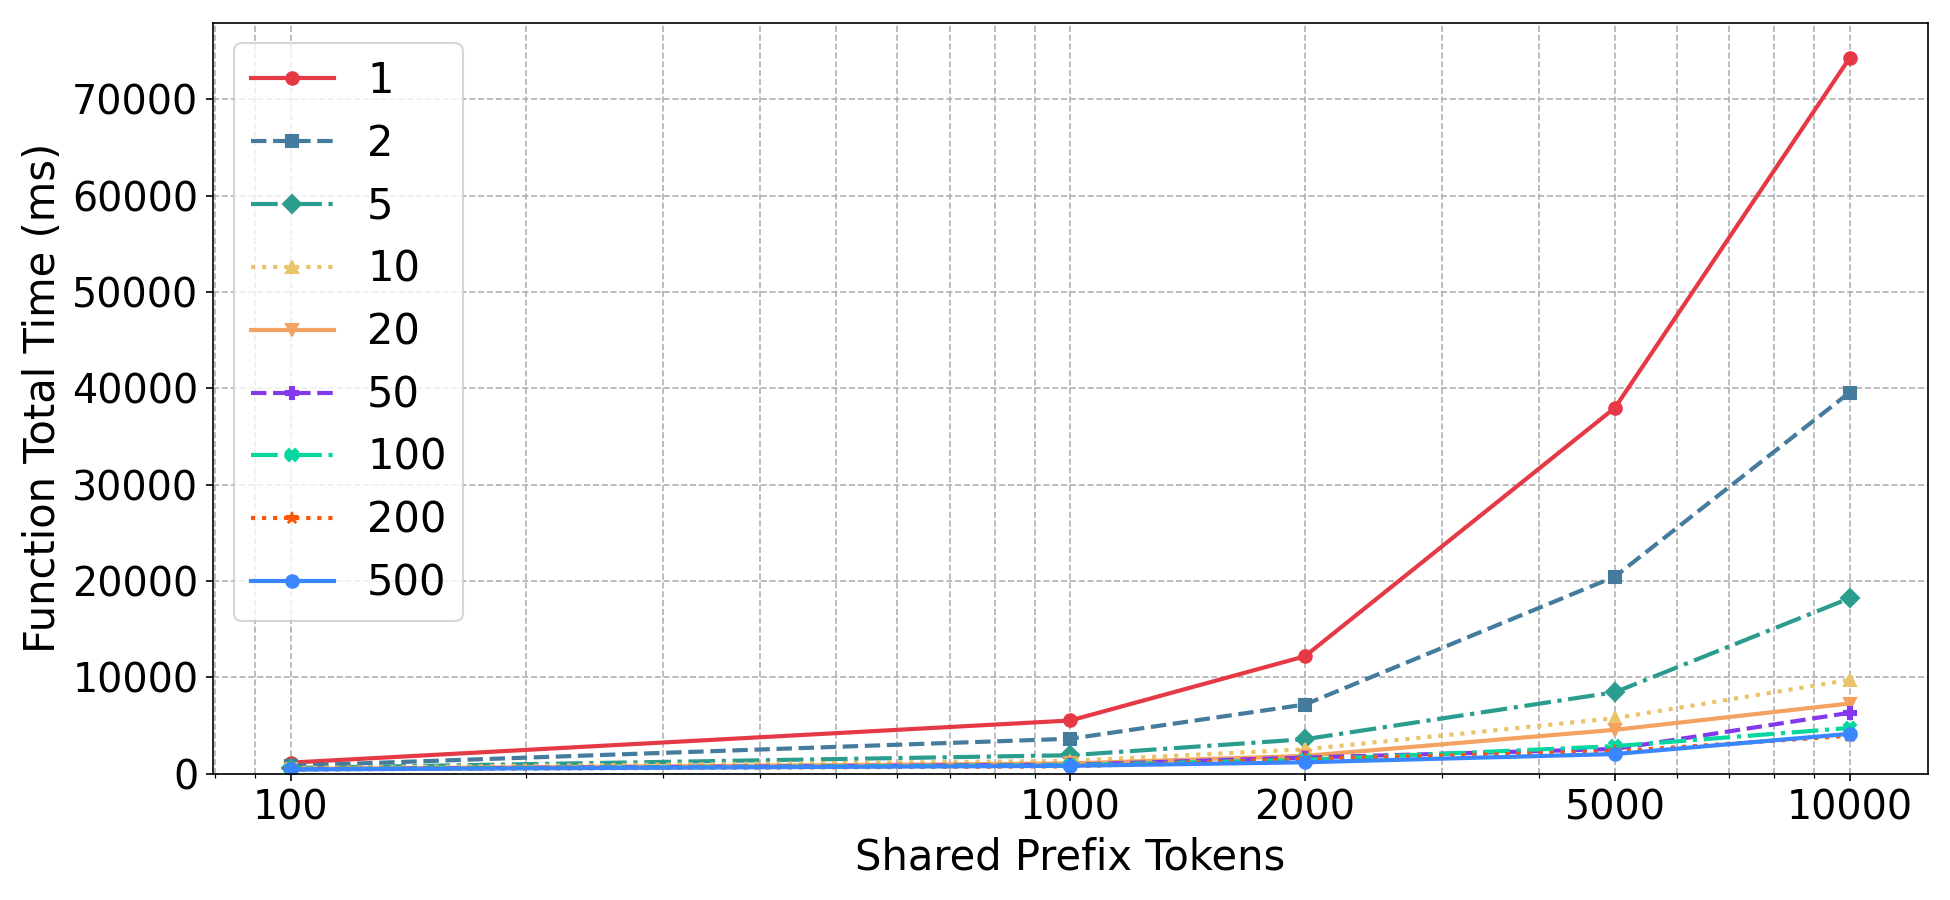
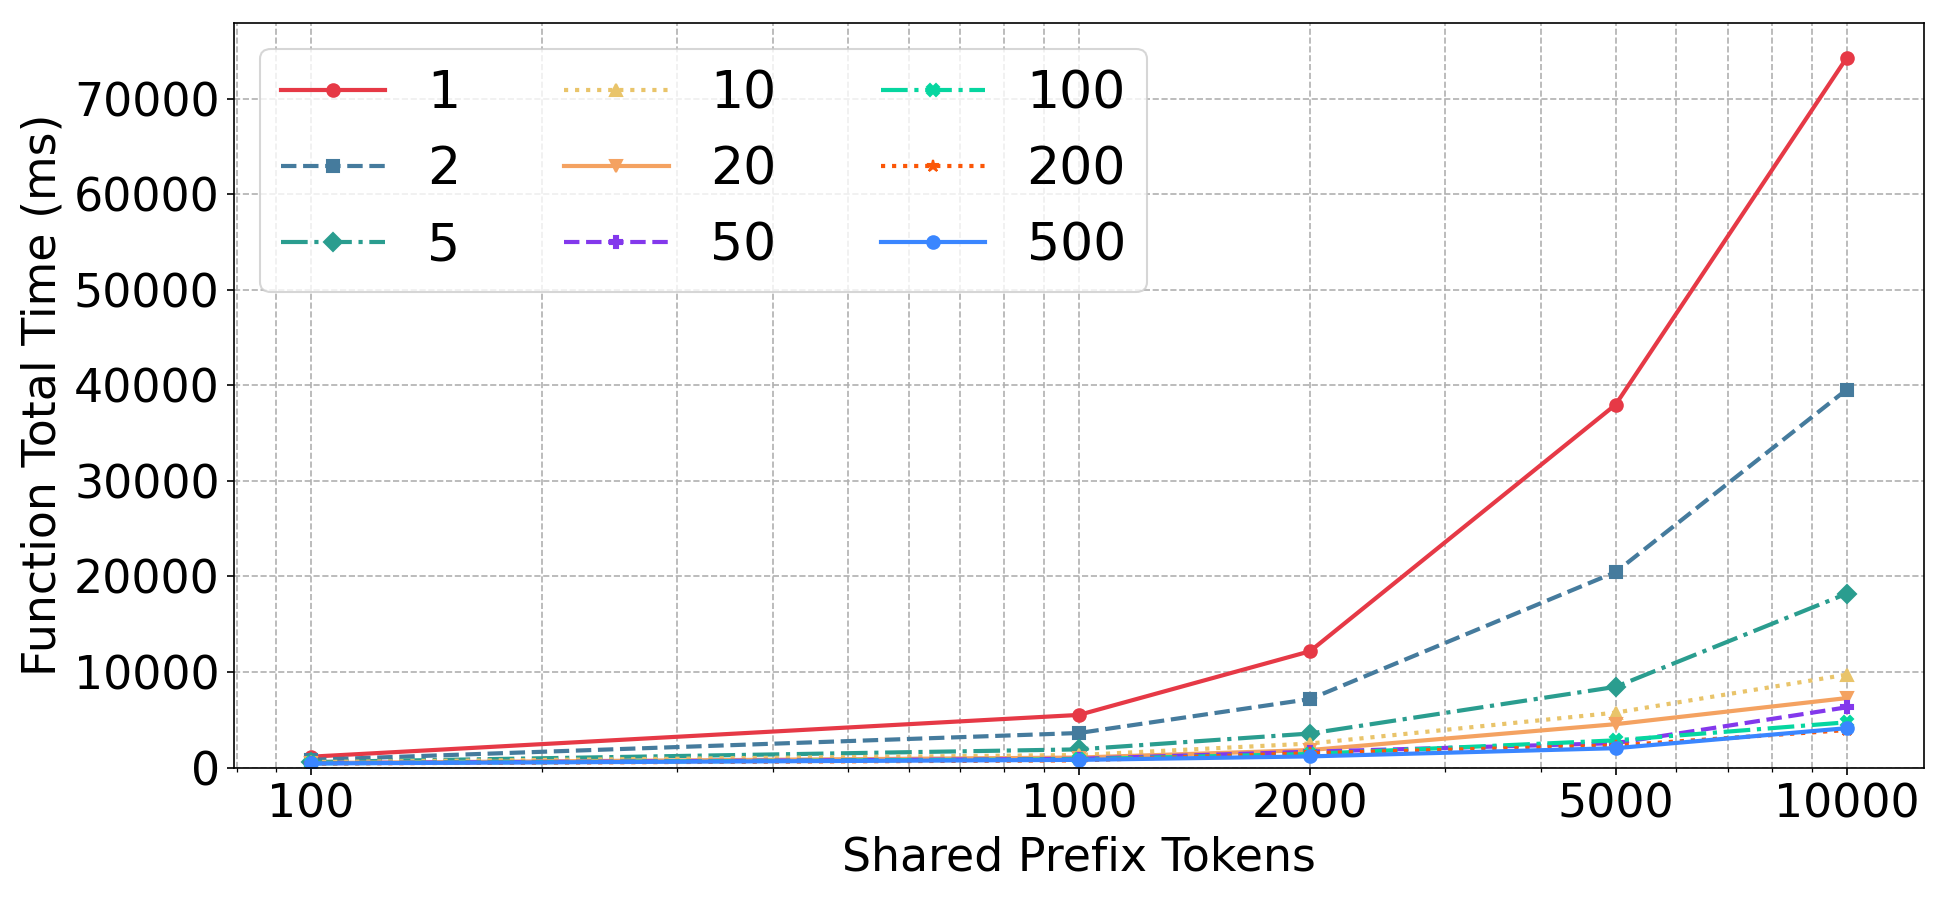
chunk size plots

diff --git a/code/vllm/chunk_size_logs/plot.py b/code/vllm/chunk_size_logs/plot.py
@@ -127,14 +127,14 @@ for i, label in enumerate(labels):
     )
 
 ax.set_xscale("log")
-ax.set_xlabel("Shared Prefix Tokens", fontsize=20)
-ax.set_ylabel("Function Total Time (ms)", fontsize=20)
+ax.set_xlabel("Shared Prefix Tokens", fontsize=22)
+ax.set_ylabel("Function Total Time (ms)", fontsize=22)
 
 ax.set_xticks(all_sys_toks)
 ax.get_xaxis().set_major_formatter(ticker.ScalarFormatter())
 
-ax.legend(fontsize=20)
-ax.tick_params(axis="both", labelsize=19)
+ax.legend(fontsize=25, ncol=3)
+ax.tick_params(axis="both", labelsize=22)
 ax.grid(True, which="both", linestyle="--")
 ax.set_ylim(bottom=0)
 
@@ -168,14 +168,14 @@ for i, label in enumerate(labels):
     )
 
 ax.set_xscale("log")
-ax.set_xlabel("Shared Prefix Tokens", fontsize=20)
-ax.set_ylabel("Throughput (tokens/sec)", fontsize=20)
+ax.set_xlabel("Shared Prefix Tokens", fontsize=22)
+ax.set_ylabel("Throughput (tokens/sec)", fontsize=22)
 
 ax.set_xticks(all_sys_toks)
 ax.get_xaxis().set_major_formatter(ticker.ScalarFormatter())
 
-ax.legend(fontsize=20)
-ax.tick_params(axis="both", labelsize=19)
+ax.legend(fontsize=25, ncol=3)
+ax.tick_params(axis="both", labelsize=22)
 ax.grid(True, which="both", linestyle="--")
 ax.set_ylim(bottom=0)
 
